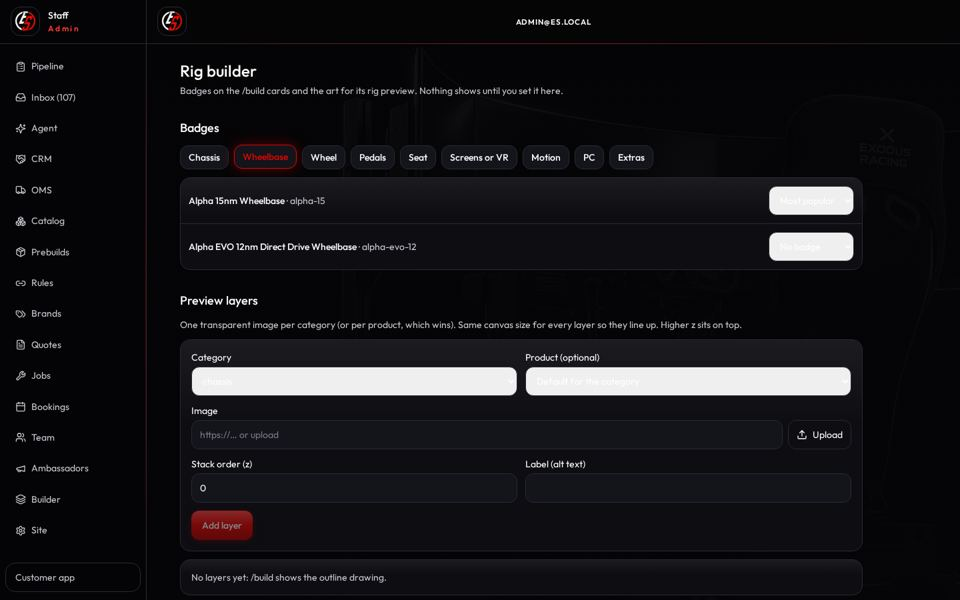
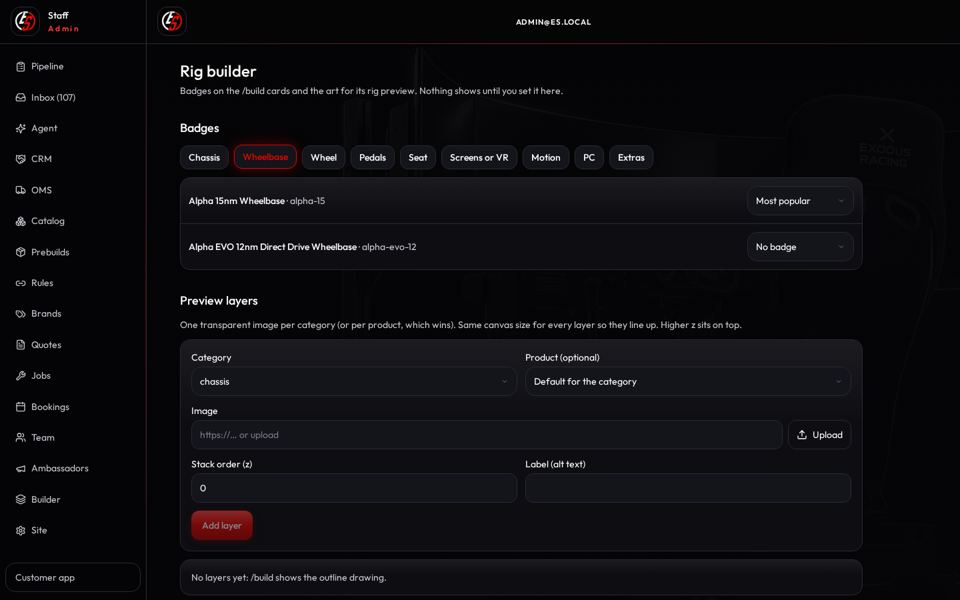
Staff builder: dark selects

Changed region(s): [[0.1875, 0.6, 0.9062, 0.66], [0.7812, 0.3, 0.9062, 0.45]]

diff --git a/src/routes/staff/builder.tsx b/src/routes/staff/builder.tsx
@@ -106,7 +106,7 @@ function StaffBuilder() {
               </span>
               <select
                 aria-label={`Badge for ${p.name}`}
-                className="min-h-11 rounded-md border border-line bg-surface px-3 text-sm text-paper"
+                className="es-input w-auto min-w-40 pr-9"
                 value={badges[p.sku] ?? ""}
                 onChange={(e) => void setBadge(p.sku, e.target.value)}
               >
@@ -136,7 +136,7 @@ function StaffBuilder() {
         >
           <label className="grid gap-1 text-sm">
             <span>Category</span>
-            <select className="min-h-11 rounded-md border border-line bg-surface px-3 text-paper" value={form.category} onChange={(e) => setForm({ ...form, category: e.target.value, sku: "" })}>
+            <select className="es-input pr-9" value={form.category} onChange={(e) => setForm({ ...form, category: e.target.value, sku: "" })}>
               {CATEGORIES.map((c) => (
                 <option key={c} value={c}>
                   {c}
@@ -146,7 +146,7 @@ function StaffBuilder() {
           </label>
           <label className="grid gap-1 text-sm">
             <span>Product (optional)</span>
-            <select className="min-h-11 rounded-md border border-line bg-surface px-3 text-paper" value={form.sku} onChange={(e) => setForm({ ...form, sku: e.target.value })}>
+            <select className="es-input pr-9" value={form.sku} onChange={(e) => setForm({ ...form, sku: e.target.value })}>
               <option value="">Default for the category</option>
               {(products.data ?? [])
                 .filter((p) => p.category === form.category)
